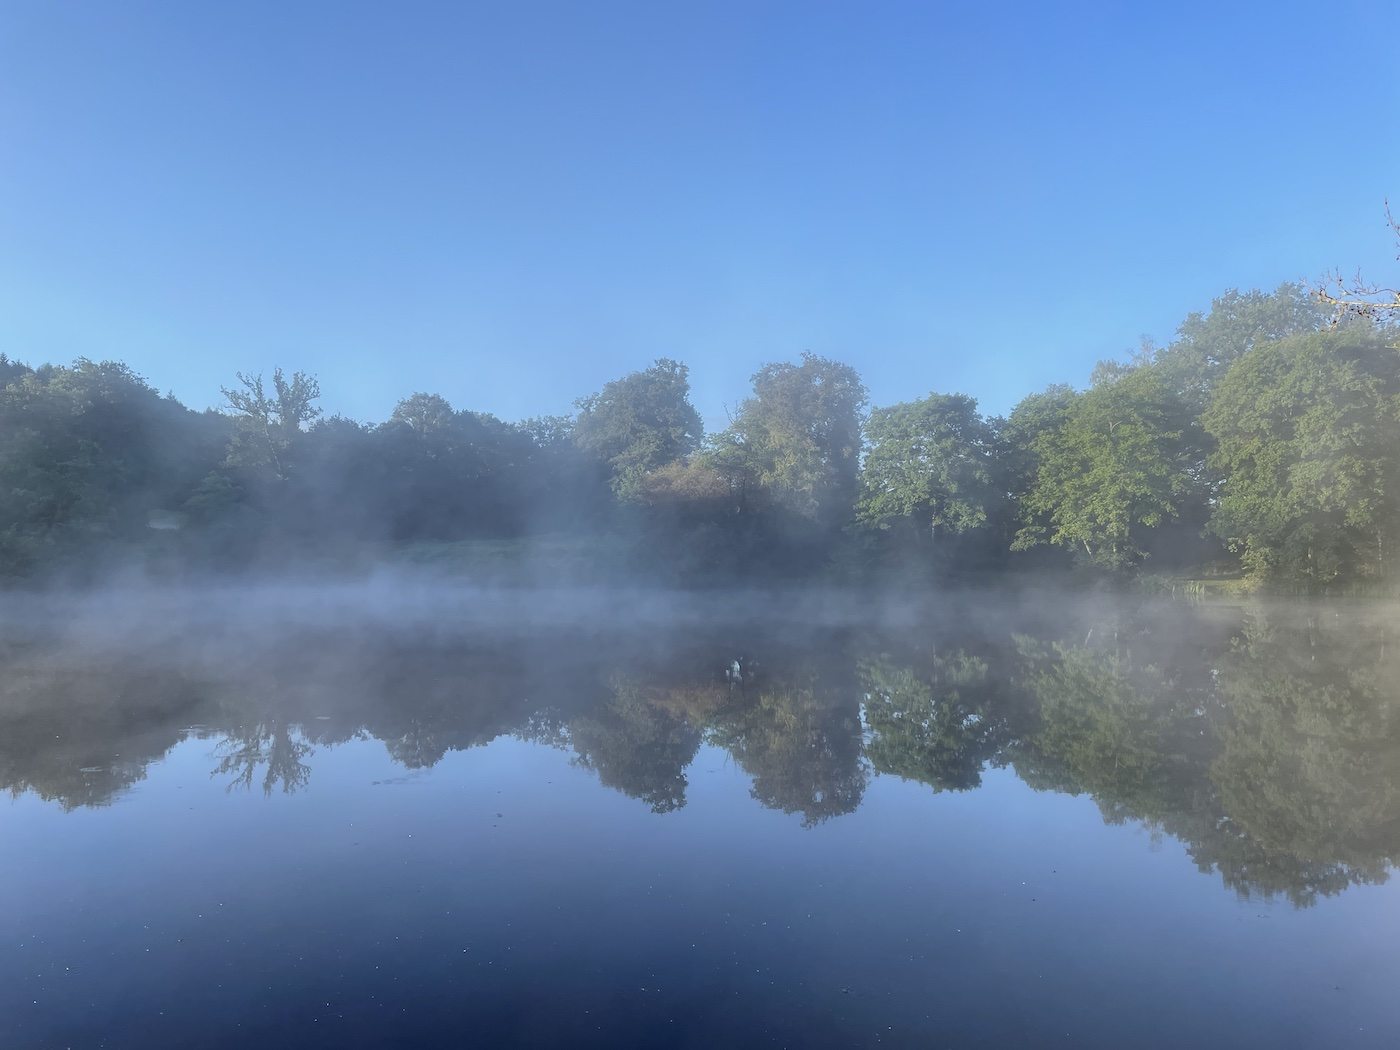
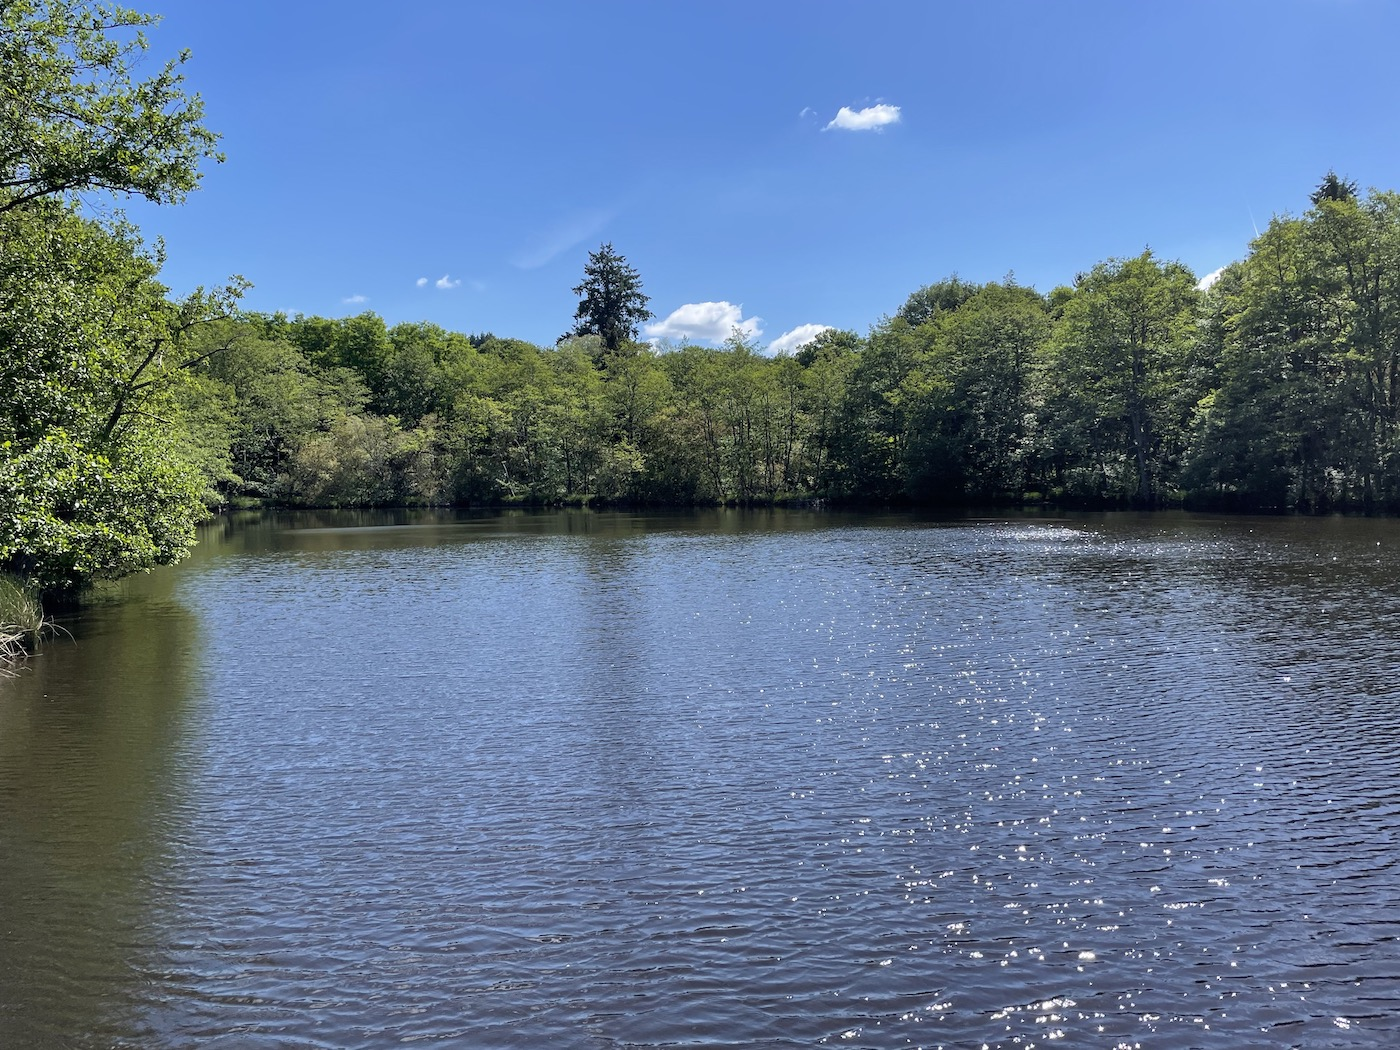
outline

diff --git a/public/css/app.css b/public/css/app.css
@@ -9713,3 +9713,19 @@ table .button {
 .map-container {
   margin-top: 50px;
 }
+
+.info-bar {
+  background: #313133;
+  color: #FFFFFF;
+  border-radius: 8px;
+  padding: 5px 0 5px 0;
+  margin: 25px 0 0 0;
+  font-weight: bold;
+  letter-spacing: 2px;
+}
+
+.outline {
+  border: 1px solid #303133;
+  border-radius: 8px;
+  padding: 10px 15px 10px 15px;
+}

diff --git a/resources/css/app.scss b/resources/css/app.scss
@@ -1054,3 +1054,20 @@ table .button {
 .map-container {
 	margin-top: 50px;
 }
+
+.info-bar {
+	background: #313133;
+	color: #FFFFFF;
+	border-radius: 8px;
+	padding: 5px 0 5px 0;
+	margin: 25px 0 0 0;
+	font-weight: bold;
+	letter-spacing: 2px;
+}
+
+
+.outline {
+	border: 1px solid #303133;
+	border-radius: 8px;
+	padding: 10px 15px 10px 15px;
+}

diff --git a/resources/views/pages/news.blade.php b/resources/views/pages/news.blade.php
@@ -28,10 +28,12 @@
 					@endisset
 				</div>
 				<div class="cell small-12 medium-12 ml-4">
-					<h2><a href="/article/{{ $featured->url }}">{{ $featured->title }}</a></h2>
-					<h5><small>{{ substr($featured->body, 0,  250)}}...</small></h5>
-			    	<p><small><i class="far fa-calendar-alt"></i> {{ date('j M Y', strtotime ($featured->created_at)) }} <span class="seperator">/</span>Posted by: {{ $featured->admin->firstName }} {{ $featured->admin->lastName }} <span class="seperator">/</span> {{ date('H:i A', strtotime ($featured->created_at)) }}</small></p>
-			    	<a href="/article/{{ $featured->url }}" class="button success hollow expanded">Read Article</a>
+					<div class="outline" data-equalizer-watch>
+						<h2><a href="/article/{{ $featured->url }}">{{ $featured->title }}</a></h2>
+						<h5><small>{{ substr($featured->body, 0,  250)}}...</small></h5>
+				    	<p><small><i class="far fa-calendar-alt"></i> {{ date('j M Y', strtotime ($featured->created_at)) }} <span class="seperator">/</span>Posted by: {{ $featured->admin->firstName }} {{ $featured->admin->lastName }} <span class="seperator">/</span> {{ date('H:i A', strtotime ($featured->created_at)) }}</small></p>
+				    	<a href="/article/{{ $featured->url }}" class="button success hollow expanded">Read Article</a>
+				    </div>
 				</div><!-- End of cell-->
 			</div>
 			</div>

diff --git a/resources/views/pages/location.blade.php b/resources/views/pages/location.blade.php
@@ -124,6 +124,7 @@
 							</tbody>
 						</table>
 					</div> 
+					<br>
 				</div><!-- End of cell-->
 			</div>      
 		</div><!-- End of cell-->  
